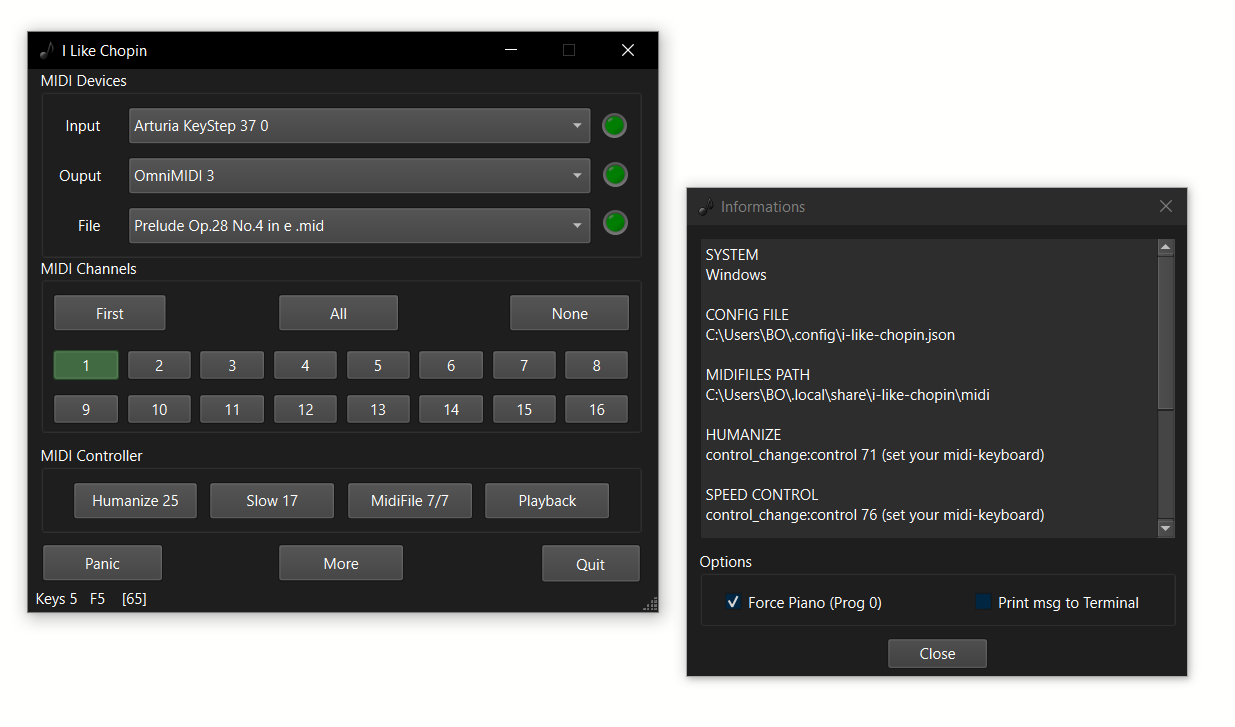
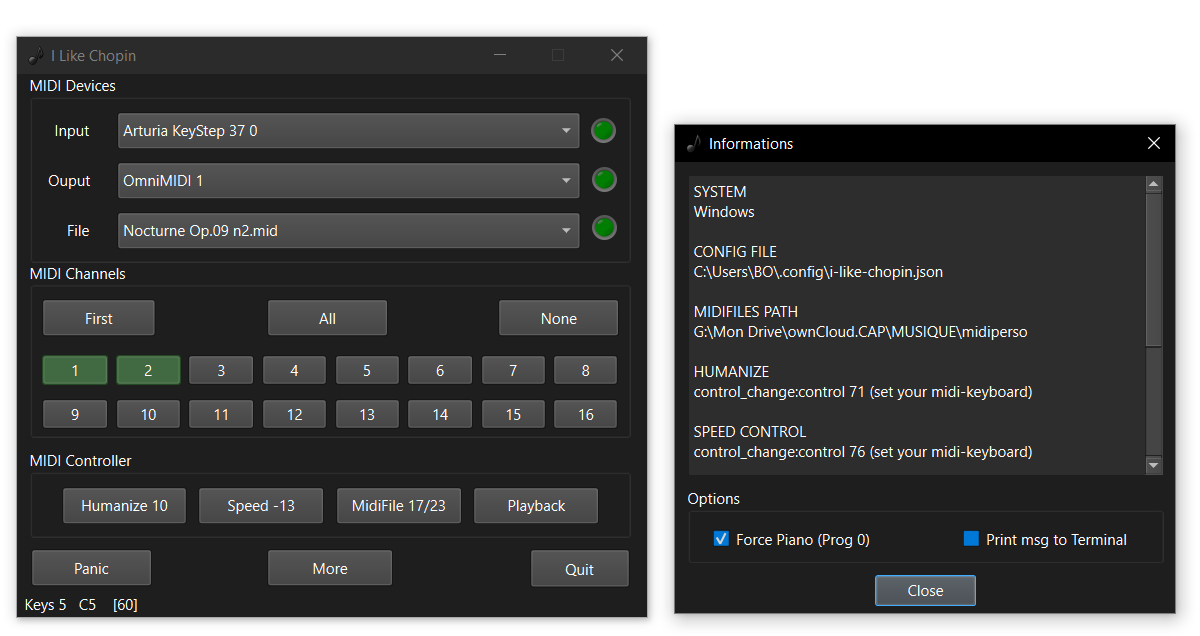
Renamed 'slow' to 'speed'

diff --git a/src/ui_mainwindow.py b/src/ui_mainwindow.py
@@ -3,7 +3,7 @@
 ################################################################################
 ## Form generated from reading UI file 'mainwindow.ui'
 ##
-## Created by: Qt User Interface Compiler version 6.7.1
+## Created by: Qt User Interface Compiler version 6.7.2
 ##
 ## WARNING! All changes made in this file will be lost when recompiling UI file!
 ################################################################################
@@ -23,7 +23,7 @@ class Ui_MainWindow(object):
     def setupUi(self, MainWindow):
         if not MainWindow.objectName():
             MainWindow.setObjectName(u"MainWindow")
-        MainWindow.resize(504, 434)
+        MainWindow.resize(504, 442)
         self.centralwidget = QWidget(MainWindow)
         self.centralwidget.setObjectName(u"centralwidget")
         self.pushButton_Quit = QPushButton(self.centralwidget)
@@ -93,9 +93,9 @@ class Ui_MainWindow(object):
         self.pushButton_FileIndex.setEnabled(True)
         self.pushButton_FileIndex.setGeometry(QRect(245, 30, 101, 30))
         self.pushButton_FileIndex.setCheckable(False)
-        self.pushButton_Slow = QPushButton(self.groupBox_3)
-        self.pushButton_Slow.setObjectName(u"pushButton_Slow")
-        self.pushButton_Slow.setGeometry(QRect(135, 30, 101, 30))
+        self.pushButton_Speed = QPushButton(self.groupBox_3)
+        self.pushButton_Speed.setObjectName(u"pushButton_Speed")
+        self.pushButton_Speed.setGeometry(QRect(135, 30, 101, 30))
         self.pushButton_Humanize = QPushButton(self.groupBox_3)
         self.pushButton_Humanize.setObjectName(u"pushButton_Humanize")
         self.pushButton_Humanize.setEnabled(True)
@@ -133,7 +133,7 @@ class Ui_MainWindow(object):
         self.pushButton_Panic.setText(QCoreApplication.translate("MainWindow", u"Panic", None))
         self.groupBox_3.setTitle(QCoreApplication.translate("MainWindow", u"MIDI Controller", None))
         self.pushButton_FileIndex.setText(QCoreApplication.translate("MainWindow", u"Midifile", None))
-        self.pushButton_Slow.setText(QCoreApplication.translate("MainWindow", u"Slow", None))
+        self.pushButton_Speed.setText(QCoreApplication.translate("MainWindow", u"Speed", None))
         self.pushButton_Humanize.setText(QCoreApplication.translate("MainWindow", u"Humanize", None))
         self.pushButton_Mode.setText(QCoreApplication.translate("MainWindow", u"Playback", None))
         self.pushButton_Info.setText(QCoreApplication.translate("MainWindow", u"More", None))

diff --git a/src/mainwindow.py b/src/mainwindow.py
@@ -54,6 +54,9 @@ class MainWindow(QMainWindow):
         my_icon.addFile(ICON_APPLICATION)
         self.setWindowIcon(my_icon)
 
+        #StatusBar
+        self.ui.statusbar.setSizeGripEnabled(False)
+
         # Midi class
         self.midi = ClassMidiMain(self,self.TracksList)
 
@@ -211,11 +214,17 @@ class MainWindow(QMainWindow):
     def PrintKeys(self,n):
         self.ui.statusbar.showMessage("Keys\t"+str(n))
 
-    def PrintSlow(self,speed): #0 to 126
-        self.ui.pushButton_Slow.setText("Slow "+str(speed))
+    def PrintSpeed(self,speed): #0 to 126
+        if speed :
+            self.ui.pushButton_Speed.setText(f"Speed -{speed}")
+        else:
+            self.ui.pushButton_Speed.setText("Speed")
 
     def PrintHumanize(self,value):
-        self.ui.pushButton_Humanize.setText("Humanize "+str(value))
+        if value :
+            self.ui.pushButton_Humanize.setText("Humanize "+str(value))
+        else:
+            self.ui.pushButton_Humanize.setText("Humanize")
 
     def ChangeMidiFile(self,value):
         # value 0-127

diff --git a/src/midi_input.py b/src/midi_input.py
@@ -54,8 +54,8 @@ class ClassThreadInput(Thread):
                 self.keys['humanize'] = message.value #0 to 127
                 self.pParent.PrintHumanize(message.value)
             elif message.control == 76:
-                self.keys['tempo'] = message.value #0 to 127
-                self.pParent.PrintSlow(message.value)
+                self.keys['speed'] = message.value #0 to 127
+                self.pParent.PrintSpeed(message.value)
             elif message.control == 77:
                 self.pParent.ChangeMidiFile(message.value)
             elif message.control == 51 and message.value == 127:

diff --git a/src/midi_file.py b/src/midi_file.py
@@ -66,7 +66,7 @@ class ClassThreadMidiFile(Thread):
                     human = random.randrange(0,self.keys['humanize'],1)/2000
                 else:
                     human = 0
-                msg.time = msg.time + self.keys['tempo']/8000 + human
+                msg.time = msg.time + self.keys['speed']/2000 + human
 
             time.sleep(msg.time)
 

diff --git a/src/midi_main.py b/src/midi_main.py
@@ -17,7 +17,7 @@ from settings import ClassSettings
 
 class ClassMidiMain:
 
-    keys={"key_on":0,"playback":True,"tempo":0,"humanize":0}
+    keys={"key_on":0,"playback":True,"speed":0,"humanize":0}
 
     # Threads
     ThreadInput = None
